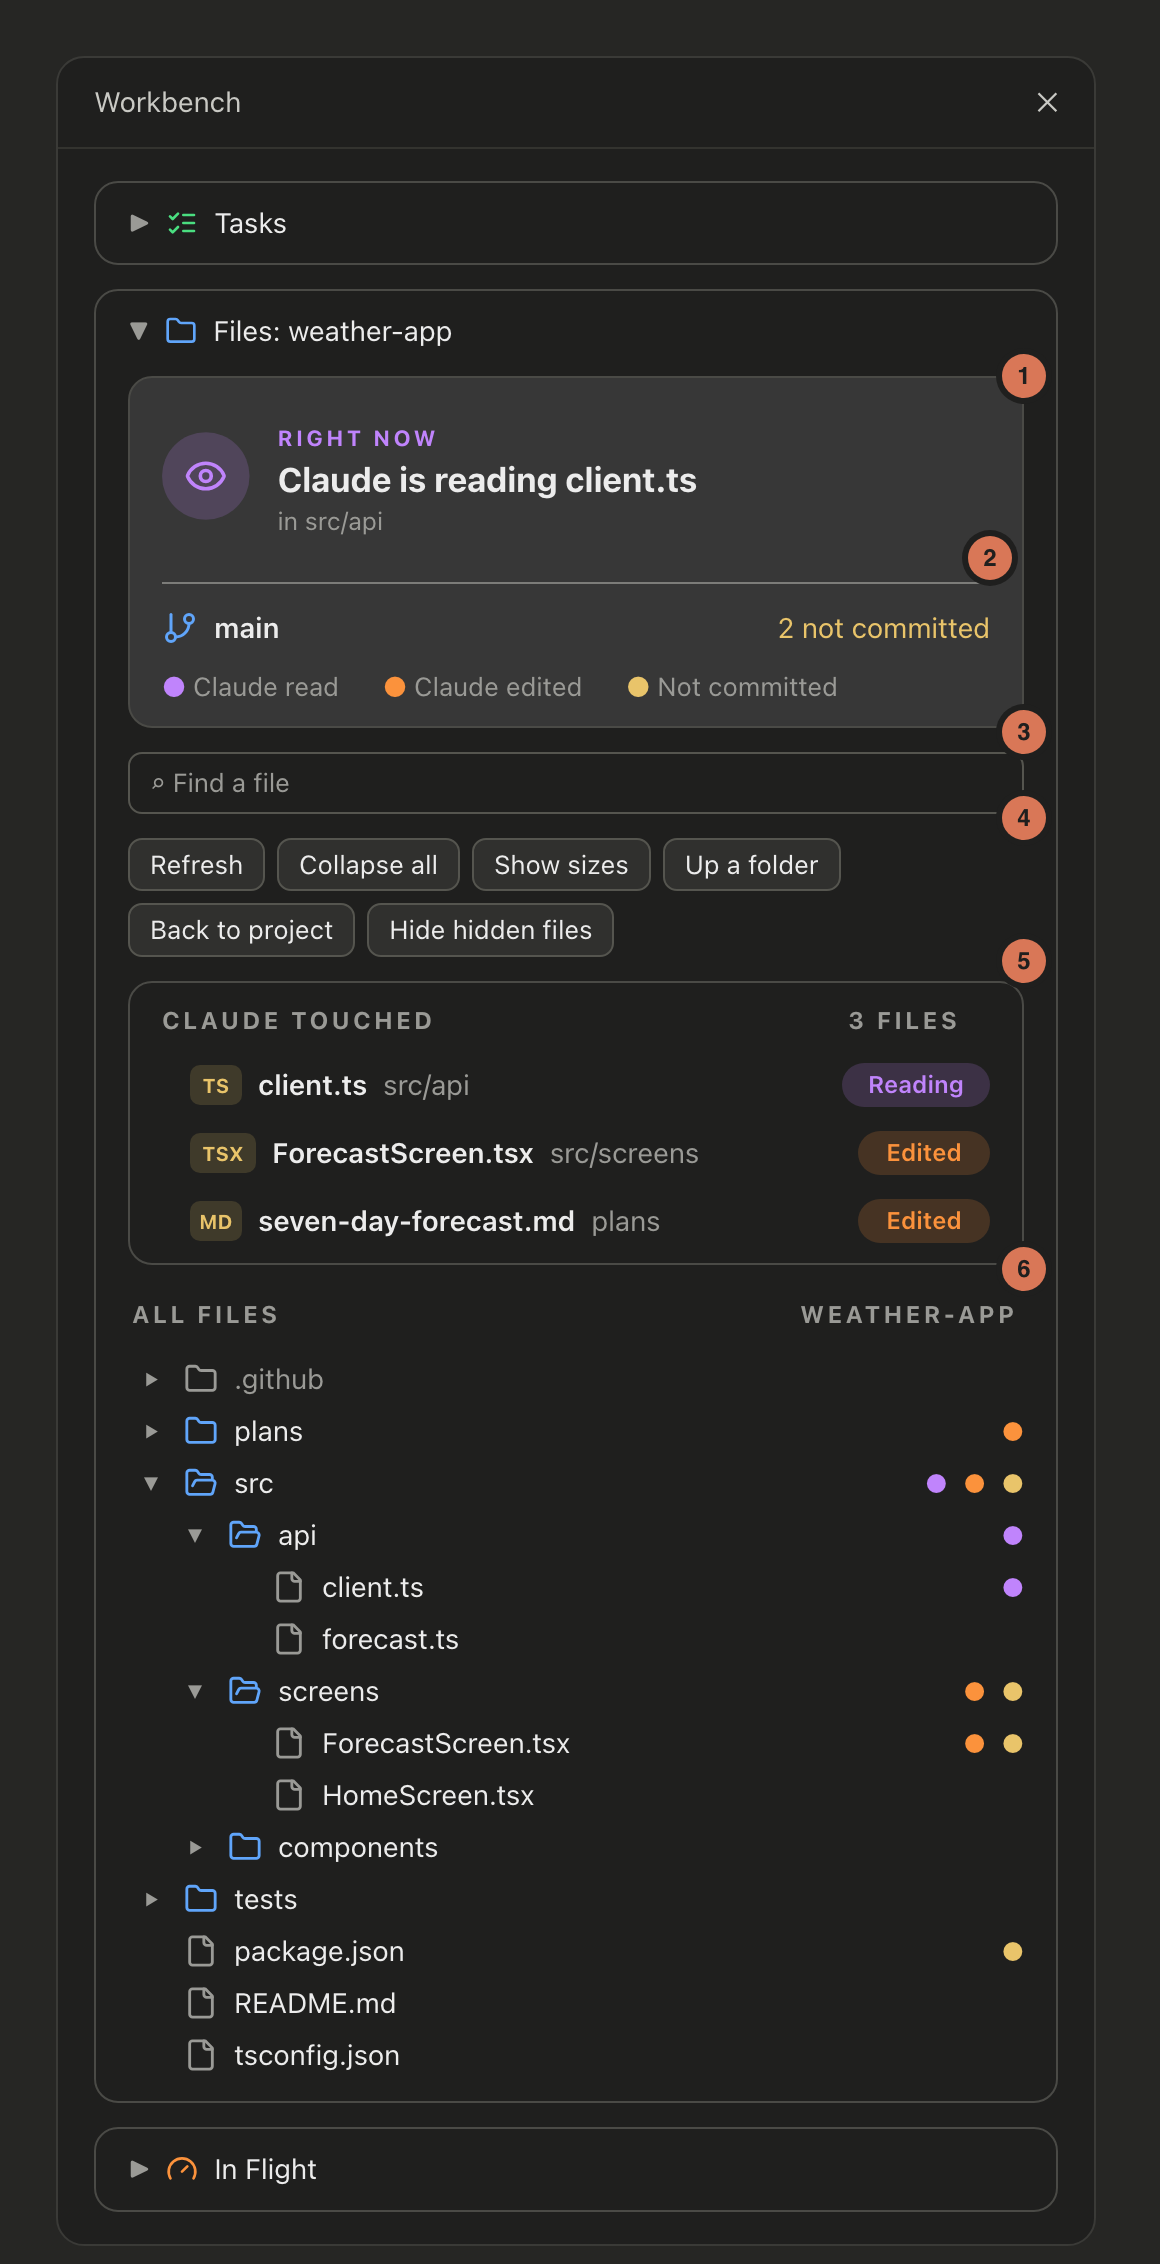
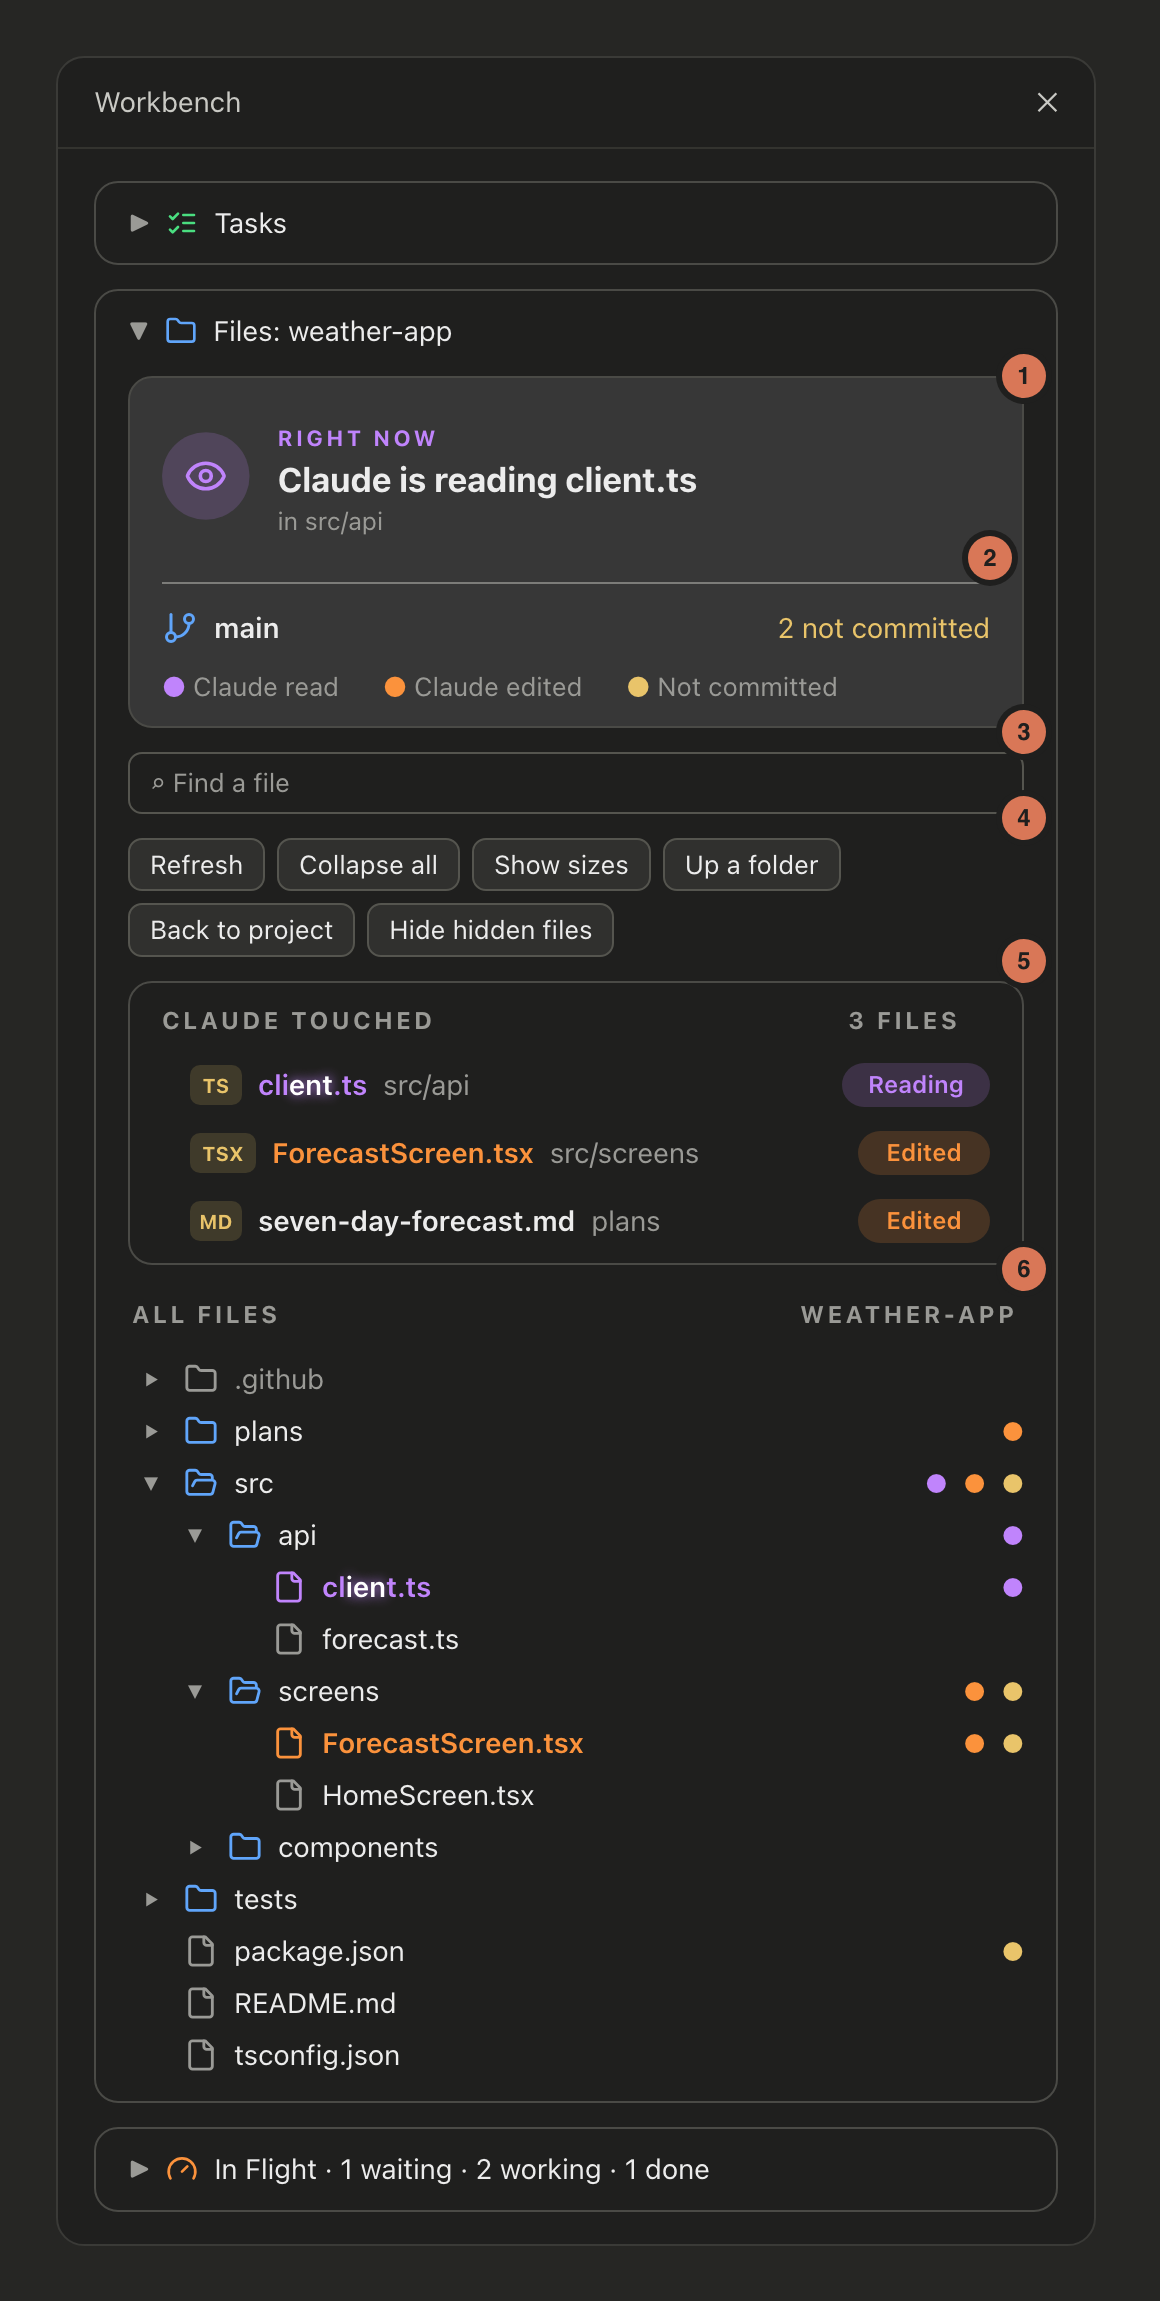
README: mockups redrawn with Sessions (panel 2 of In Flight, counts on the collapsed header) and the Files shimmer and edited highlight; In Flight list renumbered

diff --git a/README.md b/README.md
@@ -12,7 +12,7 @@ Works with [claude-skins](https://github.com/hellosverre/claude-skins): the pane
 
 ![The band above the prompt: the task, the item in progress and a progress bar](media/band.png)
 
-<img src="media/pane.png" alt="The Workbench pane: Tasks with work items and Up next, Files with Right now, Claude touched and the file tree, and In Flight collapsed" width="420">
+<img src="media/pane.png" alt="The Workbench pane: Tasks with work items and Up next, Files with Right now, Claude touched and the file tree, and In Flight collapsed with its session counts" width="420">
 
 <sub>Mockups drawn with the mod's own drawing code and sample data.</sub>
 
@@ -66,16 +66,15 @@ While Claude works, the file it's reading or editing shimmers in the tree and in
 
 What Claude and its subagents are doing right now, adapted from [claude-flightdeck](https://github.com/scasella/claude-flightdeck) by Stephen Casella (MIT). It only watches: it never blocks or changes a tool call.
 
-**Sessions** sits under the main panel: every Claude Code session running on your machine (desktop app, VS Code, terminal), waiting first, then working, then done, each with its title, folder, where it runs and how long it's been in that state. A waiting session says what it waits for (`input needed`, `dialog open`). Collapsed, the box's header still counts them: `In Flight · 1 waiting · 2 working · 3 done`. It reads the registry Claude Code keeps in `~/.claude/sessions` every 3 seconds and checks each process is still running with `ps`, so closed sessions drop off (macOS and Linux).
-
-<img src="media/inflight.png" alt="The In Flight box expanded, with numbered panels: main model, architect, permission gate, agents, the turn and the session log" width="420">
+<img src="media/inflight.png" alt="The In Flight box expanded, with numbered panels: main model, sessions on this machine, architect, permission gate, agents, the turn and the session log" width="420">
 
 1. **Main.** The model, whether it's working, effort, permission mode and requests so far. The context gauge (⟲ counts compactions), the session's cost and your 5-hour and 7-day limits.
-2. **Architect.** Shows up once Claude consults an advisor or architect agent: each consult on a timeline, when it happened (before a plan, after repeated errors, before done; inferred), and the last advice.
-3. **Gate.** One square per permission check. Green was allowed by your settings, blue by the auto-mode classifier or you, amber is waiting for you, red ✗ was denied; checks inside subagents are dimmed. `file`, `shell` and `other` open the last five checks of that kind, with credentials masked.
-4. **Agents.** The three newest subagents as tiles: task, type, context, steps, status and a running clock. Earlier ones are listed below. Press one to see its last tool calls and the start of its answer.
-5. **Turn.** The turn in progress with its clock, edits and errors, or a receipt for the last one with its cost.
-6. **Session log.** Prompts, spawns, consults, edits, errors and denials as they happen.
+2. **Sessions.** Every Claude Code session running on your machine (desktop app, VS Code, terminal): waiting first, then working, then done, each with its title, folder, where it runs and how long it's been in that state. A waiting session says what it waits for (`input needed`, `dialog open`). Collapsed, the box's header still counts them: `In Flight · 1 waiting · 2 working · 1 done`. It reads the registry Claude Code keeps in `~/.claude/sessions` every 3 seconds and checks each process is still running with `ps`, so closed sessions drop off (macOS and Linux).
+3. **Architect.** Shows up once Claude consults an advisor or architect agent: each consult on a timeline, when it happened (before a plan, after repeated errors, before done; inferred), and the last advice.
+4. **Gate.** One square per permission check. Green was allowed by your settings, blue by the auto-mode classifier or you, amber is waiting for you, red ✗ was denied; checks inside subagents are dimmed. `file`, `shell` and `other` open the last five checks of that kind, with credentials masked.
+5. **Agents.** The three newest subagents as tiles: task, type, context, steps, status and a running clock. Earlier ones are listed below. Press one to see its last tool calls and the start of its answer.
+6. **Turn.** The turn in progress with its clock, edits and errors, or a receipt for the last one with its cost.
+7. **Session log.** Prompts, spawns, consults, edits, errors and denials as they happen.
 
 Panels with nothing to show take no room, and **Reset** clears the box. It reads its data only while open.
 
